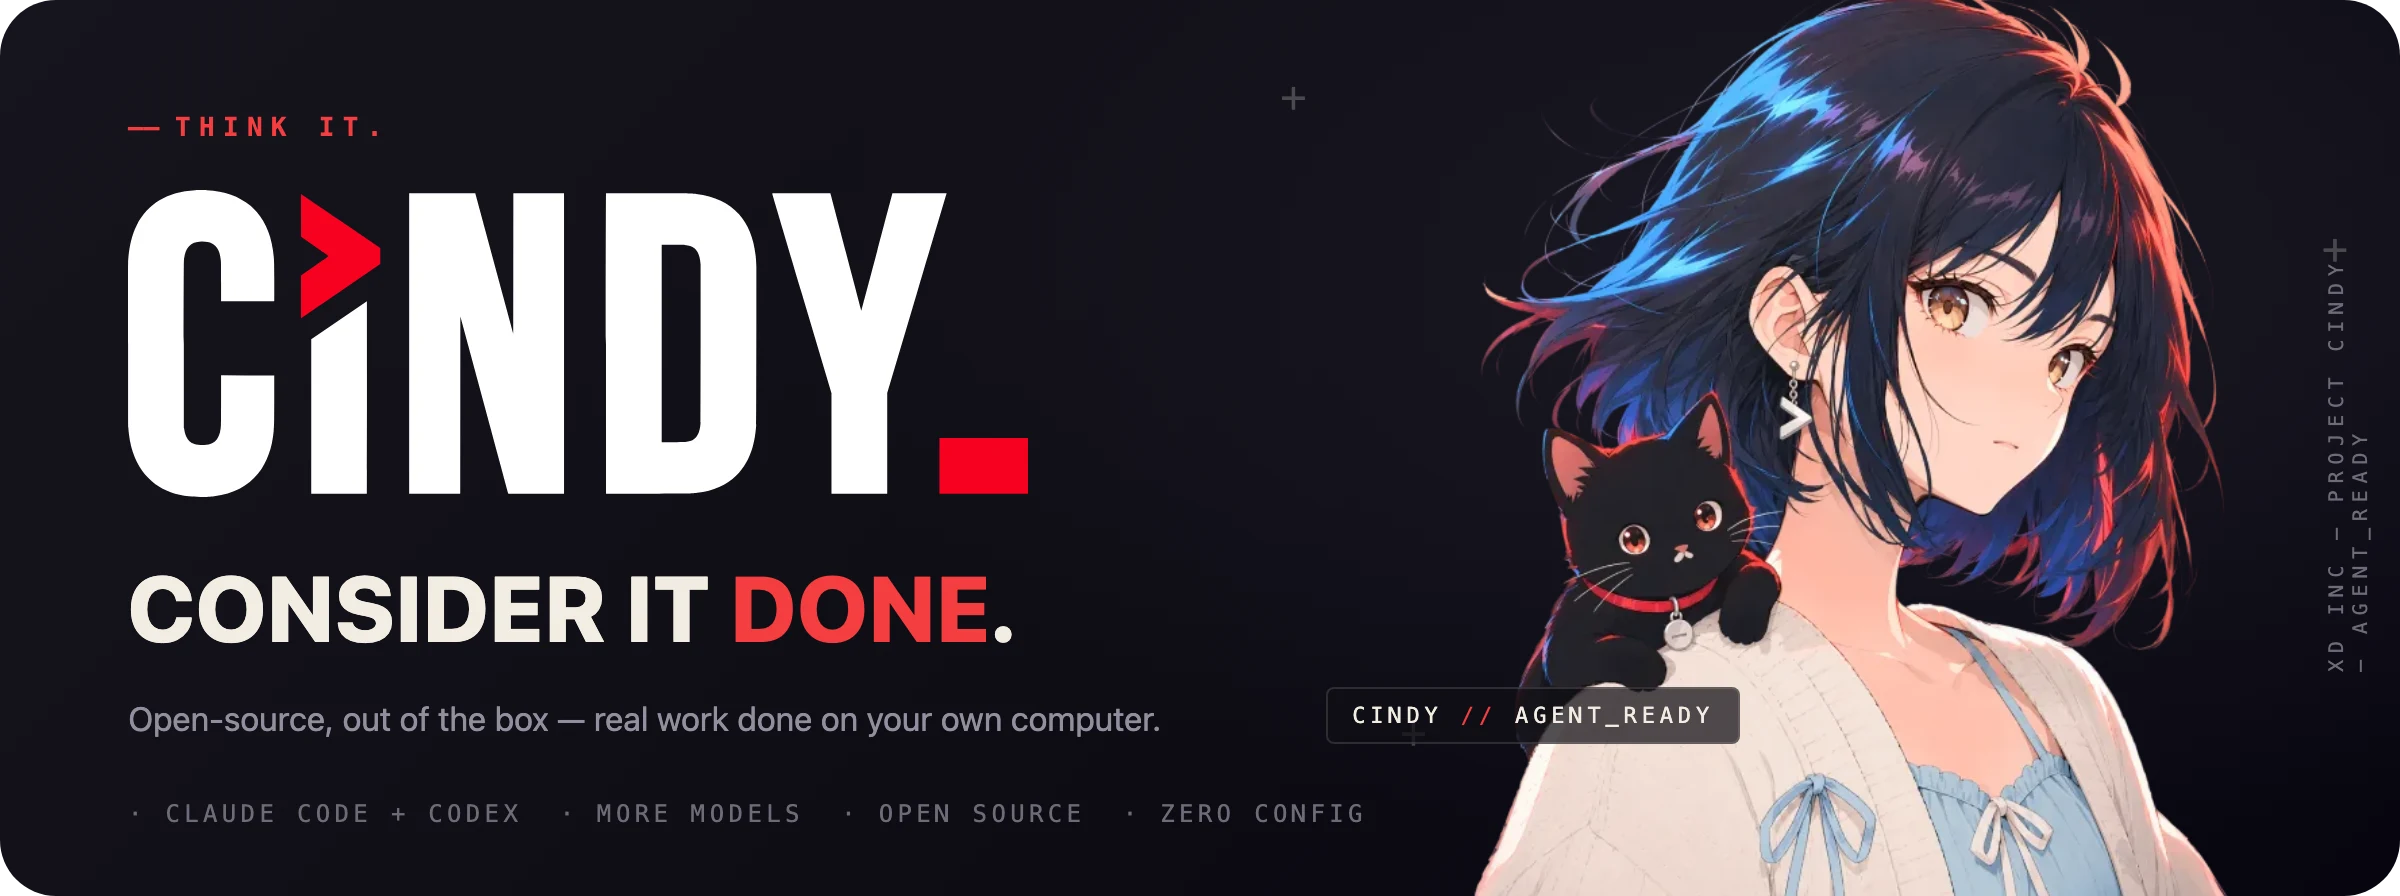
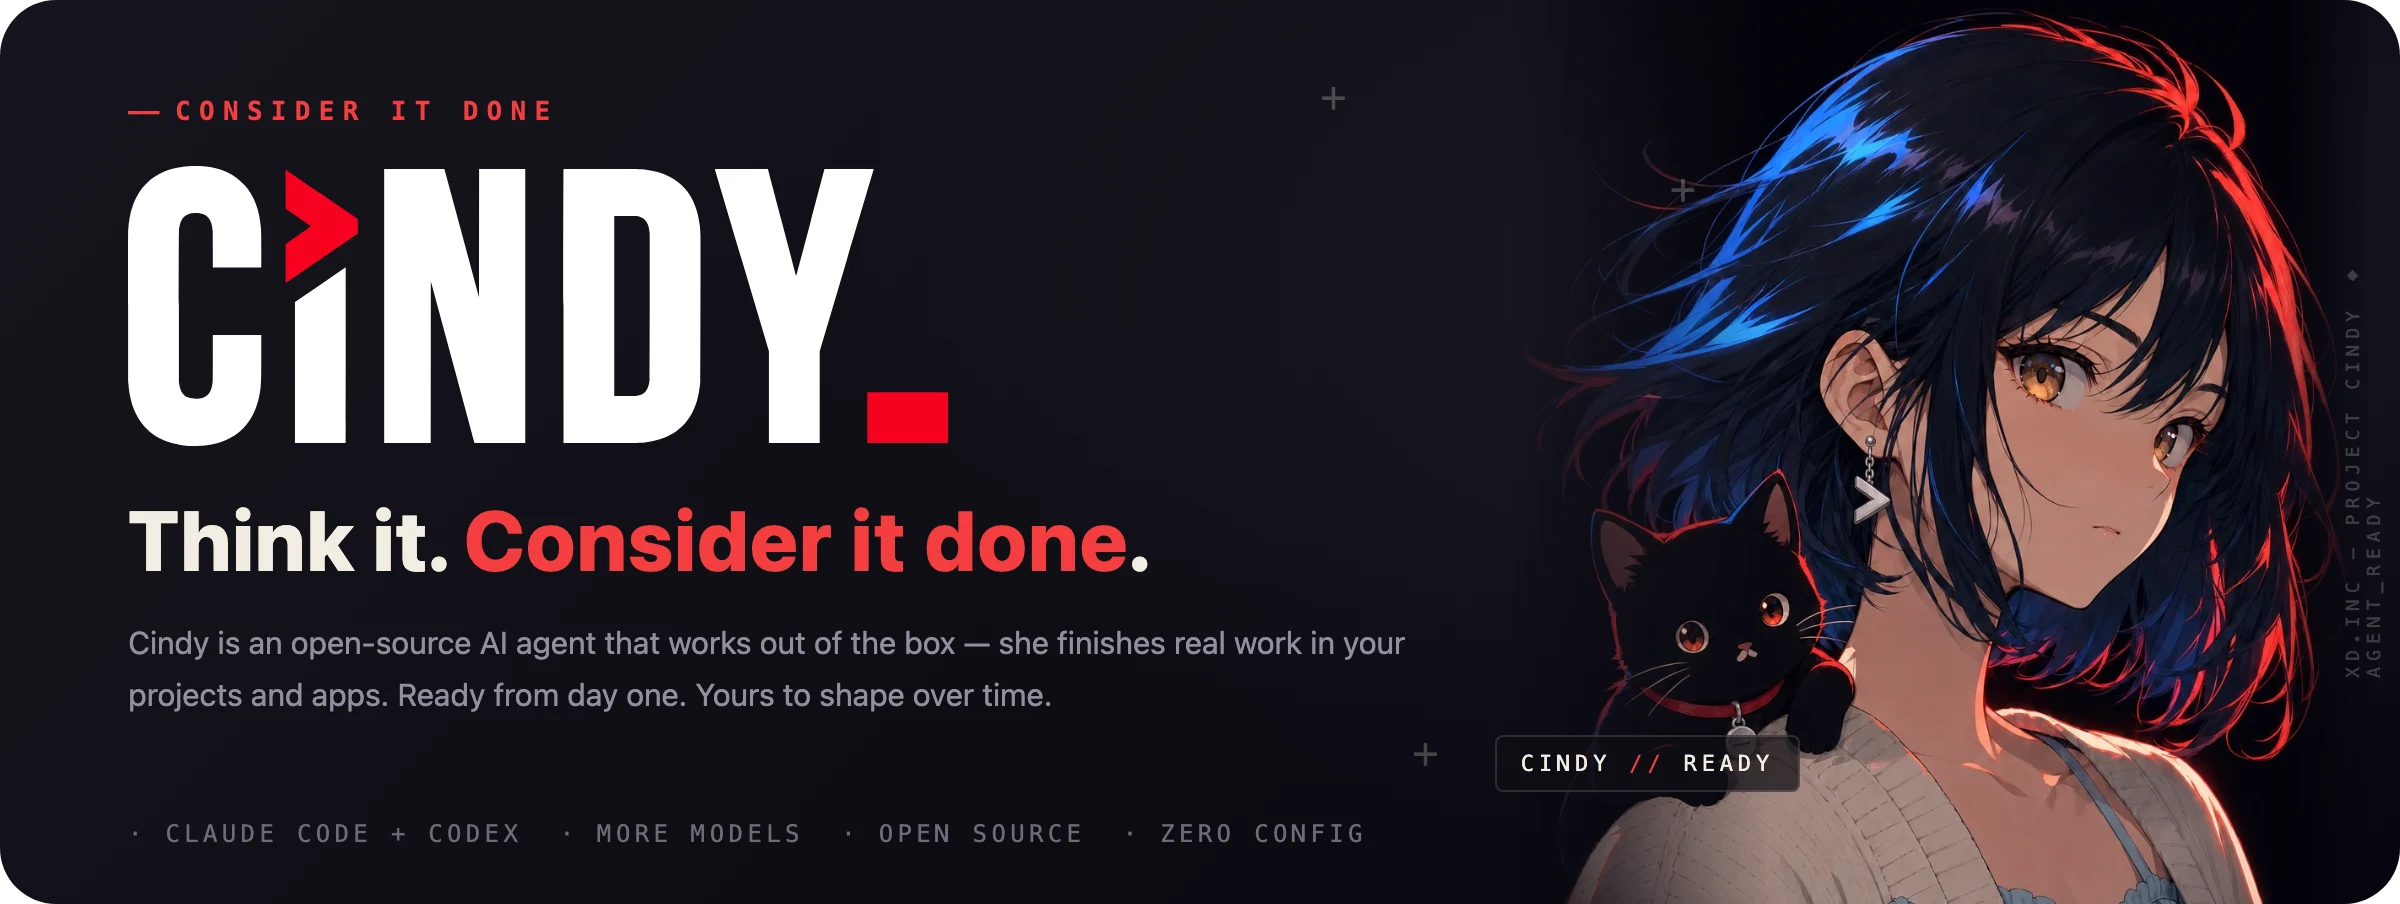
docs(readme): 重放 #371 合并后丢失的四个提交（下载页链接 / 角色对调 hero / born-global 口径） (#472)
* docs(readme): 下载链接改用独立下载页 /download/

* docs(readme): hero 角色按语言对调并同步官网当期文案

中文板用国际版官网「侧身回眸」(ALTER EGO),英文板用中国大陆版官网
「正面」(READY),与官网反向配对;放大裁至肩部、两板头部体量对齐;
板上描述换官网 hero 整段原文,英文 h1 用 Think it. Consider it done.。

* docs(readme): hero 定稿——角色微调与两行版描述

英文板角色下移 10px;两板描述精简为两行(官网原句头尾,Harness 信息
由 meta 行承担)。

* docs(readme): 英文物料改用 born-global 口径

英文 README 不再出现中国大陆版入口:站点/下载合并为 cindy.app 单行、
pricing 链接去区分;International 弃用,必要处用 Global 或不加限定词;
开发段 --region=cn 等工程事实保留。

* docs(readme): pricing 与 download 链接分开指向各自页面

---------

diff --git a/README.md b/README.md
@@ -14,11 +14,7 @@
 </p>
 
 <p align="center">
-  🌐 <a href="https://cindy.app">International</a> | <a href="https://cindy.cn">Mainland China</a>
-</p>
-
-<p align="center">
-  ⬇ <a href="https://cindy.app/#download">International download</a> | <a href="https://cindy.cn/#download">Mainland China download</a>
+  🌐 <a href="https://cindy.app">cindy.app</a> &nbsp;·&nbsp; ⬇ <a href="https://cindy.app/download/">Download</a>
 </p>
 
 
@@ -42,9 +38,8 @@ models your way: sign in to the official Cindy service (usage deducted
 transparently), authorize the **Claude Code / Codex Coding Plan** you already
 pay for and keep using it inside Cindy — no duplicate bill — connect your own
 API keys, or use local models.
-See the [international site](https://cindy.app/#pricing) or the
-[Mainland China site](https://cindy.cn/#pricing) for service details, pricing,
-and downloads.
+See [cindy.app](https://cindy.app) for service details,
+[pricing](https://cindy.app/#pricing), and [downloads](https://cindy.app/download/).
 
 ## Yours to shape
 
@@ -75,7 +70,7 @@ repository and is not part of this monorepo.
 
 | Mode | Account requirement | Availability |
 | --- | --- | --- |
-| Hosted service | Cindy cloud account | Use Cindy's full hosted service. See [international pricing](https://cindy.app/#pricing) or [Mainland China pricing](https://cindy.cn/#pricing). |
+| Hosted service | Cindy cloud account | Use Cindy's full hosted service. See [pricing](https://cindy.app/#pricing). |
 | Local mode | No Cindy sign-in required | Choose “Local mode” on the login screen to use local agents. Server-backed capabilities are unavailable in this mode. |
 
 ## Prerequisites
@@ -108,13 +103,13 @@ pnpm install
 # Mainland China Cindy account
 pnpm restart:desktop:remote --region=cn
 
-# International Cindy account
+# Global Cindy account
 pnpm restart:desktop:remote --region=global
 ```
 
 Remote development uses your own Cindy cloud account and existing login state, so
 you can continue existing sessions and work while developing the client. Use `cn`
-for Mainland China accounts and `global` for international accounts; do not rely
+for Mainland China accounts and `global` for everyone else; do not rely
 on the internal default. Full desktop, mobile, data-isolation, and validation
 workflows are in [`CONTRIBUTING.en.md`](CONTRIBUTING.en.md).
 

diff --git a/README.zh-CN.md b/README.zh-CN.md
@@ -18,7 +18,7 @@
 </p>
 
 <p align="center">
-  ⬇ <a href="https://cindy.cn/#download">中国大陆版下载</a> | <a href="https://cindy.app/#download">国际版下载</a>
+  ⬇ <a href="https://cindy.cn/download/">中国大陆版下载</a> | <a href="https://cindy.app/download/">国际版下载</a>
 </p>
 
 
